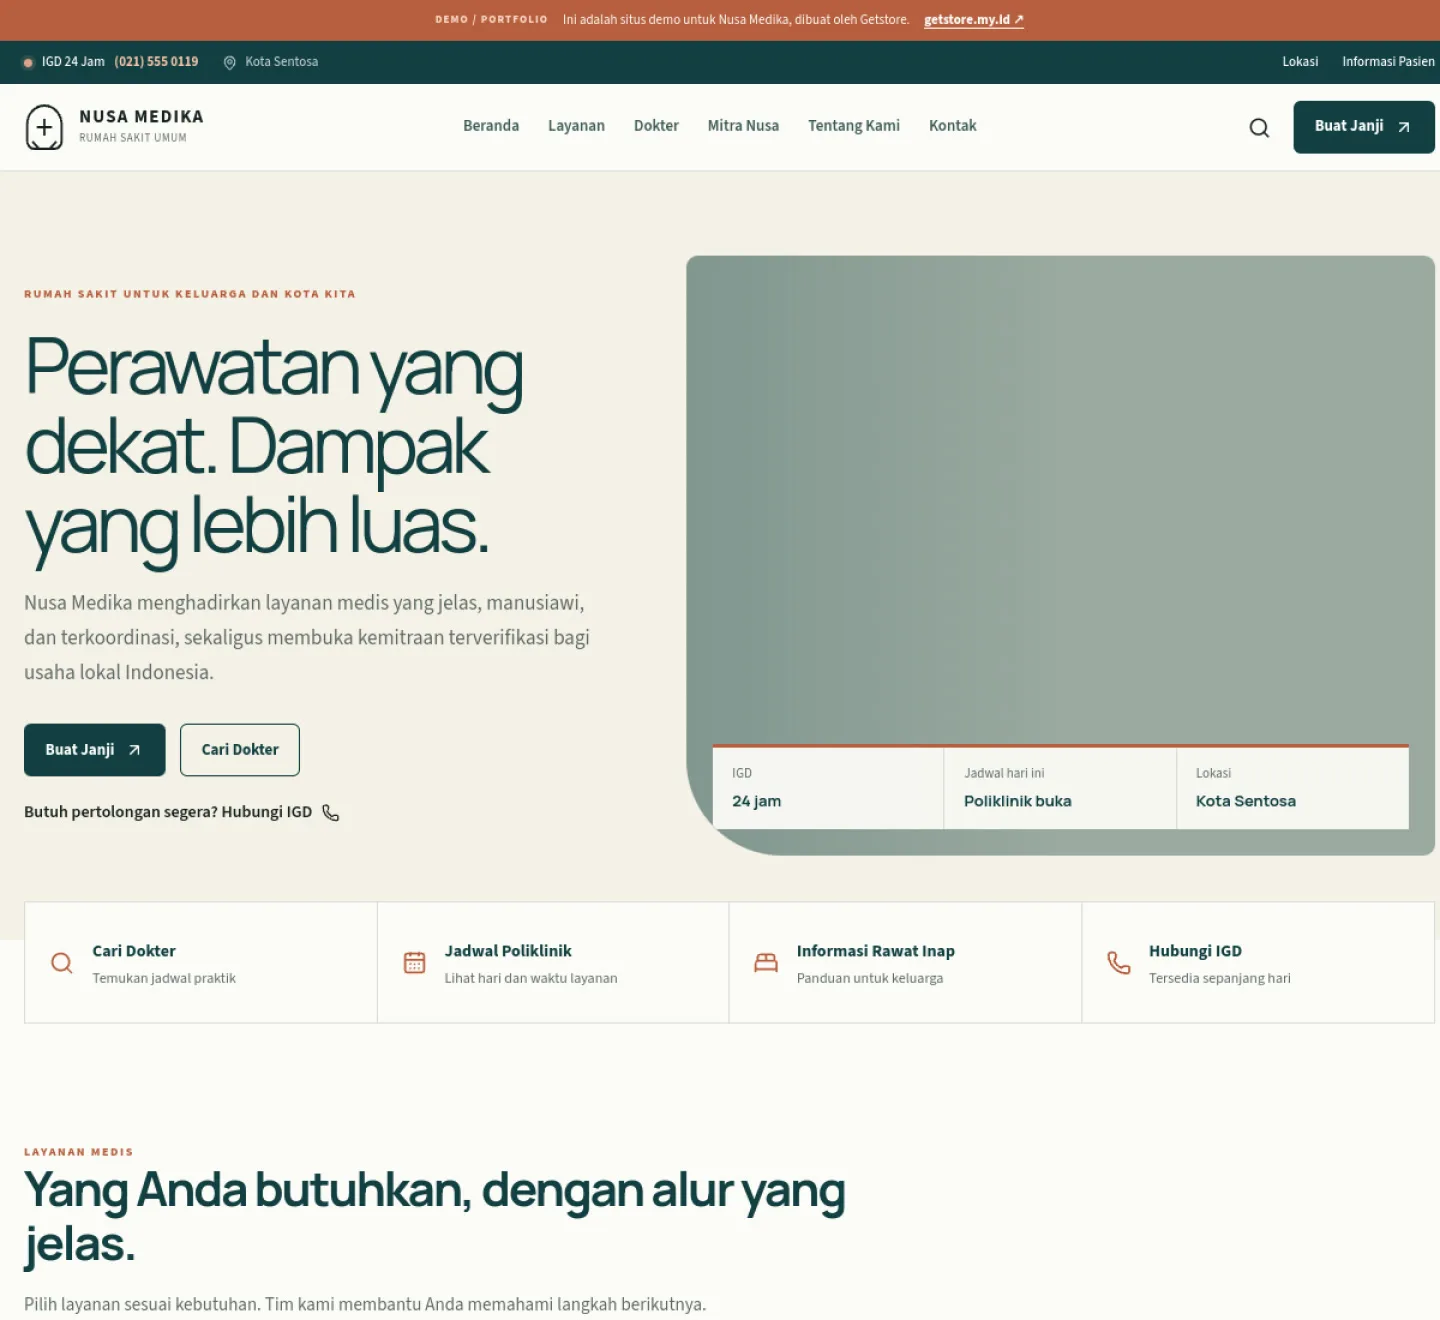
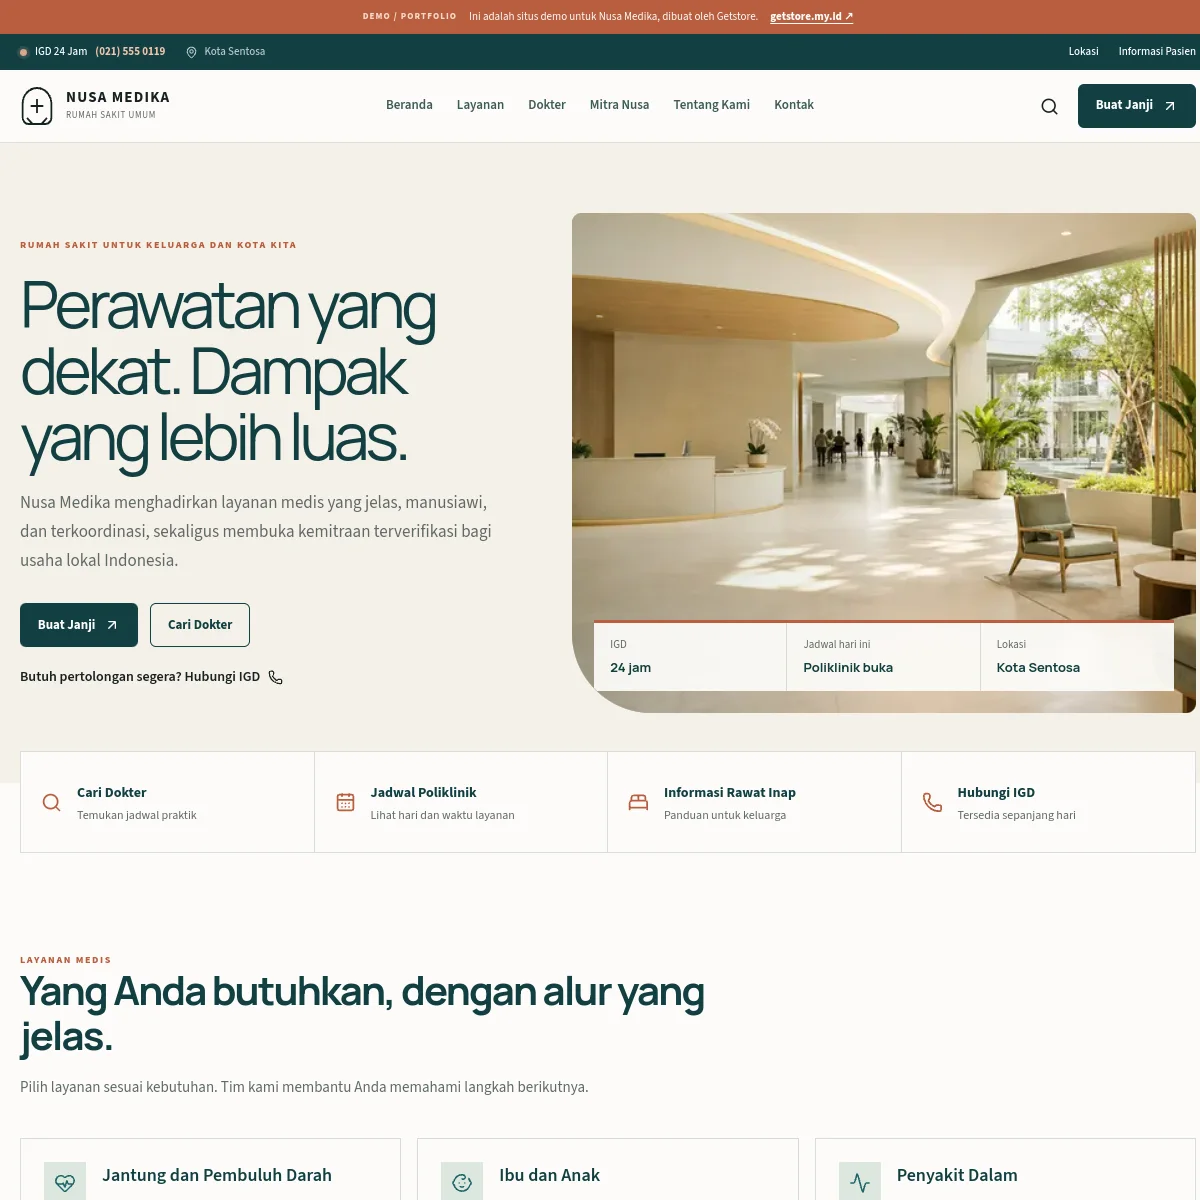
Refresh portfolio previews and image crops

diff --git a/apps/web/src/app/page.tsx b/apps/web/src/app/page.tsx
@@ -4,7 +4,7 @@ const images = {
   hero: "https://images.unsplash.com/photo-1517248135467-4c7edcad34c4?auto=format&fit=crop&w=1400&q=85",
   restaurant: "/images/portfolio-pangkas-kala.webp",
   fashion: "/images/portfolio-lungguh.webp",
-  beauty: "https://images.unsplash.com/photo-1560066984-138dadb4c035?auto=format&fit=crop&w=1200&q=85",
+  beauty: "/images/portfolio-ruang-rona.webp",
   construction: "/images/portfolio-pulang-rapi.webp",
 };
 
@@ -36,13 +36,13 @@ export default function Home() {
   return <main className="overflow-hidden">
     <section className="min-h-[100dvh] bg-[#f2eee8] px-5 pb-8 pt-5 text-[#252420] md:px-10 md:pt-7">
       <nav className="mx-auto flex max-w-[1320px] items-center justify-between border-b border-[#252420]/15 pb-5" aria-label="Navigasi utama"><a href="#top" className="font-display text-[23px] font-semibold tracking-[-0.06em]">getstore<span className="text-[#d7663f]">.</span></a><div className="hidden items-center gap-8 font-mono text-[10px] uppercase tracking-[0.18em] text-[#6f6a63] md:flex"><a className="transition-colors hover:text-[#d7663f]" href="#work">Pilihan karya</a><a className="transition-colors hover:text-[#d7663f]" href="#process">Proses</a><a className="transition-colors hover:text-[#d7663f]" href="#pricing">Harga</a></div><a href="https://wa.me/6287794620631" className="rounded-full bg-[#252420] px-5 py-3 font-mono text-[10px] uppercase tracking-[0.16em] text-[#f2eee8] transition-transform hover:-translate-y-0.5">Mari ngobrol</a></nav>
-      <div id="top" className="mx-auto grid max-w-[1320px] gap-12 pb-8 pt-12 md:grid-cols-[0.9fr_1.1fr] md:items-end md:gap-16 md:pb-14 md:pt-20"><div className="relative z-10"><Label number="01">Website untuk bisnis lokal</Label><h1 className="mt-7 max-w-[640px] font-display text-[clamp(3.25rem,6.5vw,6.8rem)] font-medium leading-[0.91] tracking-[-0.075em]">Bikin bisnis kamu terlihat <em className="font-display not-italic text-[#d7663f]">siap.</em></h1><p className="mt-8 max-w-[420px] text-[17px] leading-7 text-[#635e57]">Website yang dirancang untuk UMKM Indonesia—supaya calon pelanggan percaya sejak pertama melihat.</p><div className="mt-9 flex flex-wrap items-center gap-5"><a href="#work" className="group inline-flex items-center gap-4 rounded-full bg-[#d7663f] px-6 py-4 font-mono text-[10px] uppercase tracking-[0.16em] text-white transition-transform hover:-translate-y-1">Lihat karya kami <span className="transition-transform group-hover:translate-x-1"><Arrow /></span></a><a href="#why" className="font-mono text-[10px] uppercase tracking-[0.16em] text-[#777068] underline decoration-[#d7663f] underline-offset-8">Kenapa GetStore</a></div></div><div className="relative min-h-[390px] md:min-h-[570px]"><div className="absolute -right-5 top-0 h-[86%] w-[74%] overflow-hidden md:-right-10"><Image src={images.hero} alt="Interior restoran dengan cahaya alami" fill priority sizes="(max-width: 768px) 80vw, 50vw" className="object-cover saturate-[0.72]" /></div><div className="absolute bottom-0 left-0 w-[48%] border border-[#f2eee8] bg-[#252420] p-4 text-[#f2eee8] shadow-[12px_12px_0_#d7663f] md:p-5"><p className="font-mono text-[9px] uppercase leading-4 tracking-[0.16em] text-[#aaa49a]">Dibuat untuk bisnis<br />yang terus melangkah</p><p className="mt-8 font-display text-3xl leading-none tracking-[-0.06em]">Bisnis kecil.<br /><span className="text-[#d7663f]">Kesan besar.</span></p></div><span className="absolute right-0 top-[89%] font-mono text-[9px] uppercase tracking-[0.2em] text-[#9a9289] [writing-mode:vertical-rl]">GetStore / 2024—25</span></div></div>
+      <div id="top" className="mx-auto grid max-w-[1320px] gap-12 pb-8 pt-12 md:grid-cols-[0.9fr_1.1fr] md:items-end md:gap-16 md:pb-14 md:pt-20"><div className="relative z-10"><Label number="01">Website untuk bisnis lokal</Label><h1 className="mt-7 max-w-[640px] font-display text-[clamp(3.25rem,6.5vw,6.8rem)] font-medium leading-[0.91] tracking-[-0.075em]">Bikin bisnis kamu terlihat <em className="font-display not-italic text-[#d7663f]">siap.</em></h1><p className="mt-8 max-w-[420px] text-[17px] leading-7 text-[#635e57]">Website yang dirancang untuk UMKM Indonesia—supaya calon pelanggan percaya sejak pertama melihat.</p><div className="mt-9 flex flex-wrap items-center gap-5"><a href="#work" className="group inline-flex items-center gap-4 rounded-full bg-[#d7663f] px-6 py-4 font-mono text-[10px] uppercase tracking-[0.16em] text-white transition-transform hover:-translate-y-1">Lihat karya kami <span className="transition-transform group-hover:translate-x-1"><Arrow /></span></a><a href="#why" className="font-mono text-[10px] uppercase tracking-[0.16em] text-[#777068] underline decoration-[#d7663f] underline-offset-8">Kenapa GetStore</a></div></div><div className="relative min-h-[390px] md:min-h-[570px]"><div className="absolute -right-5 top-0 h-[86%] w-[74%] overflow-hidden md:-right-10"><Image src={images.hero} alt="Interior restoran dengan cahaya alami" fill priority sizes="(max-width: 768px) 80vw, 50vw" className="object-cover object-top saturate-[0.72]" /></div><div className="absolute bottom-0 left-0 w-[48%] border border-[#f2eee8] bg-[#252420] p-4 text-[#f2eee8] shadow-[12px_12px_0_#d7663f] md:p-5"><p className="font-mono text-[9px] uppercase leading-4 tracking-[0.16em] text-[#aaa49a]">Dibuat untuk bisnis<br />yang terus melangkah</p><p className="mt-8 font-display text-3xl leading-none tracking-[-0.06em]">Bisnis kecil.<br /><span className="text-[#d7663f]">Kesan besar.</span></p></div><span className="absolute right-0 top-[89%] font-mono text-[9px] uppercase tracking-[0.2em] text-[#9a9289] [writing-mode:vertical-rl]">GetStore / 2024—25</span></div></div>
       <div className="mx-auto flex max-w-[1320px] items-center justify-between border-t border-[#252420]/15 pt-4 font-mono text-[9px] uppercase tracking-[0.18em] text-[#9a9289]"><span>Berbasis di Indonesia</span><span>Gulir untuk melihat <span className="ml-2 text-[#d7663f]">↓</span></span></div>
     </section>
 
     <section id="why" className="bg-[#252420] px-5 py-24 text-[#f2eee8] md:px-10 md:py-36"><div className="mx-auto grid max-w-[1320px] gap-16 md:grid-cols-[0.75fr_1.25fr]"><div><Label number="02">Alasan memilih GetStore</Label><p className="mt-10 max-w-[280px] text-sm leading-6 text-[#aaa49a]">Website kamu seharusnya terasa seperti bisnis kamu di hari terbaiknya—bukan seperti template yang belum diisi.</p></div><div><h2 className="max-w-[780px] font-display text-[clamp(2.6rem,5vw,5.5rem)] leading-[0.94] tracking-[-0.07em]">Kami membuat internet terasa lebih <span className="text-[#d7663f]">manusiawi.</span></h2><div className="mt-16 grid gap-10 border-t border-[#f2eee8]/20 pt-7 sm:grid-cols-3">{reasons.map(([n, t, d]) => <div key={n}><span className="font-mono text-[10px] text-[#d7663f]">{n}</span><h3 className="mt-5 font-display text-2xl tracking-[-0.05em]">{t}</h3><p className="mt-3 text-sm leading-6 text-[#aaa49a]">{d}</p></div>)}</div></div></div></section>
 
-    <section id="work" className="bg-[#e4dfd7] px-5 py-24 text-[#252420] md:px-10 md:py-36"><div className="mx-auto max-w-[1320px]"><div className="flex flex-col justify-between gap-8 md:flex-row md:items-end"><div><Label number="03">Karya yang sudah berjalan</Label><h2 className="mt-7 max-w-[700px] font-display text-[clamp(2.8rem,5.5vw,6rem)] leading-[0.92] tracking-[-0.075em]">Bisnis yang berbeda.<br /><span className="text-[#d7663f]">Sudut pandang yang berbeda.</span></h2></div><a href="/portfolio" className="group inline-flex items-center gap-3 self-start border-b border-[#252420] pb-3 font-mono text-[10px] uppercase tracking-[0.16em] transition-colors hover:border-[#d7663f] hover:text-[#d7663f] md:self-end">Lihat semua portofolio <span className="transition-transform group-hover:translate-x-1"><Arrow /></span></a></div><div className="mt-20 grid gap-16 md:grid-cols-12 md:gap-5"><a href="https://pangkas-kala.getstore.my.id" target="_blank" rel="noreferrer" className="group block md:col-span-7"><div className="relative aspect-[1.15/1] overflow-hidden bg-[#c7c0b7]"><Image src={images.restaurant} alt="Pratinjau website Pangkas Kala" fill sizes="(max-width: 768px) 100vw, 60vw" className="object-cover saturate-[0.7] transition-transform duration-700 group-hover:scale-105" /><div className="absolute left-5 top-5 bg-[#e4dfd7] px-3 py-2 font-mono text-[9px] uppercase tracking-[0.15em]">01 / Pangkas Kala ↗</div></div><div className="mt-5 flex justify-between border-t border-[#252420]/25 pt-3"><div><h3 className="font-display text-3xl tracking-[-0.06em]">Pangkas Kala</h3><p className="mt-1 font-mono text-[9px] uppercase tracking-[0.15em] text-[#777068]">Barbershop / Cilandak</p></div><span className="text-[#d7663f]">↗</span></div></a><a href="https://lungguh.getstore.my.id" target="_blank" rel="noreferrer" className="group block md:col-span-4 md:col-start-9 md:mt-28"><div className="relative aspect-[0.8/1] overflow-hidden bg-[#9e9b91]"><Image src={images.fashion} alt="Pratinjau website Lungguh" fill sizes="(max-width: 768px) 100vw, 35vw" className="object-cover saturate-[0.65] transition-transform duration-700 group-hover:scale-105" /><div className="absolute bottom-5 left-5 bg-[#252420] px-3 py-2 font-mono text-[9px] uppercase tracking-[0.15em] text-[#f2eee8]">02 / Lungguh ↗</div></div><div className="mt-5 border-t border-[#252420]/25 pt-3"><h3 className="font-display text-3xl tracking-[-0.06em]">Lungguh</h3><p className="mt-1 font-mono text-[9px] uppercase tracking-[0.15em] text-[#777068]">Angkringan / Yogyakarta</p></div></a></div><div className="mt-20 grid gap-16 md:grid-cols-2 md:gap-24"><a href="https://ruang-rona.getstore.my.id" target="_blank" rel="noreferrer" className="group block"><div className="relative aspect-[1.6/1] overflow-hidden bg-[#c9b9aa]"><Image src={images.beauty} alt="Pratinjau website Ruang Rona" fill sizes="(max-width: 768px) 100vw, 50vw" className="object-cover saturate-[0.65] transition-transform duration-700 group-hover:scale-105" /></div><div className="mt-5 flex justify-between border-t border-[#252420]/25 pt-3"><div><h3 className="font-display text-3xl tracking-[-0.06em]">Ruang Rona</h3><p className="mt-1 font-mono text-[9px] uppercase tracking-[0.15em] text-[#777068]">Salon & beauty house / Jakarta Selatan</p></div><span className="text-[#d7663f]">↗</span></div></a><a href="https://pulang-rapi.getstore.my.id" target="_blank" rel="noreferrer" className="group block md:mt-16"><div className="relative aspect-[1.6/1] overflow-hidden bg-[#a79d8c]"><Image src={images.construction} alt="Pratinjau website Pulang Rapi" fill sizes="(max-width: 768px) 100vw, 50vw" className="object-cover saturate-[0.55] transition-transform duration-700 group-hover:scale-105" /></div><div className="mt-5 border-t border-[#252420]/25 pt-3"><h3 className="font-display text-3xl tracking-[-0.06em]">Pulang Rapi</h3><p className="mt-1 font-mono text-[9px] uppercase tracking-[0.15em] text-[#777068]">Laundry / Jakarta</p></div></a></div></div></section>
+    <section id="work" className="bg-[#e4dfd7] px-5 py-24 text-[#252420] md:px-10 md:py-36"><div className="mx-auto max-w-[1320px]"><div className="flex flex-col justify-between gap-8 md:flex-row md:items-end"><div><Label number="03">Karya yang sudah berjalan</Label><h2 className="mt-7 max-w-[700px] font-display text-[clamp(2.8rem,5.5vw,6rem)] leading-[0.92] tracking-[-0.075em]">Bisnis yang berbeda.<br /><span className="text-[#d7663f]">Sudut pandang yang berbeda.</span></h2></div><a href="/portfolio" className="group inline-flex items-center gap-3 self-start border-b border-[#252420] pb-3 font-mono text-[10px] uppercase tracking-[0.16em] transition-colors hover:border-[#d7663f] hover:text-[#d7663f] md:self-end">Lihat semua portofolio <span className="transition-transform group-hover:translate-x-1"><Arrow /></span></a></div><div className="mt-20 grid gap-16 md:grid-cols-12 md:gap-5"><a href="https://pangkas-kala.getstore.my.id" target="_blank" rel="noreferrer" className="group block md:col-span-7"><div className="relative aspect-[1.15/1] overflow-hidden bg-[#c7c0b7]"><Image src={images.restaurant} alt="Pratinjau website Pangkas Kala" fill sizes="(max-width: 768px) 100vw, 60vw" className="object-cover object-top saturate-[0.7] transition-transform duration-700 group-hover:scale-105" /><div className="absolute left-5 top-5 bg-[#e4dfd7] px-3 py-2 font-mono text-[9px] uppercase tracking-[0.15em]">01 / Pangkas Kala ↗</div></div><div className="mt-5 flex justify-between border-t border-[#252420]/25 pt-3"><div><h3 className="font-display text-3xl tracking-[-0.06em]">Pangkas Kala</h3><p className="mt-1 font-mono text-[9px] uppercase tracking-[0.15em] text-[#777068]">Barbershop / Cilandak</p></div><span className="text-[#d7663f]">↗</span></div></a><a href="https://lungguh.getstore.my.id" target="_blank" rel="noreferrer" className="group block md:col-span-4 md:col-start-9 md:mt-28"><div className="relative aspect-[0.8/1] overflow-hidden bg-[#9e9b91]"><Image src={images.fashion} alt="Pratinjau website Lungguh" fill sizes="(max-width: 768px) 100vw, 35vw" className="object-cover object-top saturate-[0.65] transition-transform duration-700 group-hover:scale-105" /><div className="absolute bottom-5 left-5 bg-[#252420] px-3 py-2 font-mono text-[9px] uppercase tracking-[0.15em] text-[#f2eee8]">02 / Lungguh ↗</div></div><div className="mt-5 border-t border-[#252420]/25 pt-3"><h3 className="font-display text-3xl tracking-[-0.06em]">Lungguh</h3><p className="mt-1 font-mono text-[9px] uppercase tracking-[0.15em] text-[#777068]">Angkringan / Yogyakarta</p></div></a></div><div className="mt-20 grid gap-16 md:grid-cols-2 md:gap-24"><a href="https://ruang-rona.getstore.my.id" target="_blank" rel="noreferrer" className="group block"><div className="relative aspect-[1.6/1] overflow-hidden bg-[#c9b9aa]"><Image src={images.beauty} alt="Pratinjau website Ruang Rona" fill sizes="(max-width: 768px) 100vw, 50vw" className="object-cover object-top saturate-[0.65] transition-transform duration-700 group-hover:scale-105" /></div><div className="mt-5 flex justify-between border-t border-[#252420]/25 pt-3"><div><h3 className="font-display text-3xl tracking-[-0.06em]">Ruang Rona</h3><p className="mt-1 font-mono text-[9px] uppercase tracking-[0.15em] text-[#777068]">Salon & beauty house / Jakarta Selatan</p></div><span className="text-[#d7663f]">↗</span></div></a><a href="https://pulang-rapi.getstore.my.id" target="_blank" rel="noreferrer" className="group block md:mt-16"><div className="relative aspect-[1.6/1] overflow-hidden bg-[#a79d8c]"><Image src={images.construction} alt="Pratinjau website Pulang Rapi" fill sizes="(max-width: 768px) 100vw, 50vw" className="object-cover object-top saturate-[0.55] transition-transform duration-700 group-hover:scale-105" /></div><div className="mt-5 border-t border-[#252420]/25 pt-3"><h3 className="font-display text-3xl tracking-[-0.06em]">Pulang Rapi</h3><p className="mt-1 font-mono text-[9px] uppercase tracking-[0.15em] text-[#777068]">Laundry / Jakarta</p></div></a></div></div></section>
 
     <section id="process" className="bg-[#f2eee8] px-5 py-24 text-[#252420] md:px-10 md:py-36"><div className="mx-auto grid max-w-[1320px] gap-16 md:grid-cols-[0.8fr_1.2fr]"><div><Label number="04">Dari ide hingga online</Label><h2 className="mt-7 max-w-[410px] font-display text-[clamp(2.8rem,5vw,5rem)] leading-[0.94] tracking-[-0.07em]">Proses sederhana, tetap <span className="text-[#d7663f]">personal.</span></h2></div><div className="border-t border-[#252420]/20">{steps.map(([n, t, d]) => <div key={n} className="grid grid-cols-[44px_1fr] gap-5 border-b border-[#252420]/20 py-7 sm:grid-cols-[70px_1fr_1fr]"><span className="font-mono text-[10px] text-[#d7663f]">{n}</span><h3 className="font-display text-2xl tracking-[-0.05em]">{t}</h3><p className="col-start-2 mt-2 text-sm leading-6 text-[#777068] sm:col-start-auto sm:mt-0">{d}</p></div>)}</div></div></section>
 

diff --git a/apps/web/src/app/portfolio/page.tsx b/apps/web/src/app/portfolio/page.tsx
@@ -19,7 +19,7 @@ export default function PortfolioPage() {
           {projects.map((project, index) => (
             <a key={project.name} href={project.href} target="_blank" rel="noreferrer" className={`group block ${index % 3 === 1 ? "md:mt-24" : ""}`}>
               <div className="relative aspect-[1.2/1] overflow-hidden bg-[#3a3833]">
-                <Image src={project.image} alt={project.alt} fill sizes="(max-width: 768px) 100vw, 50vw" className="object-cover saturate-[0.7] transition duration-700 group-hover:scale-105 group-hover:saturate-100" />
+                <Image src={project.image} alt={project.alt} fill sizes="(max-width: 768px) 100vw, 50vw" style={{ objectPosition: "top" }} className="object-cover object-top saturate-[0.7] transition duration-700 group-hover:scale-105 group-hover:saturate-100" />
                 <span className="absolute left-5 top-5 bg-[#f2eee8] px-3 py-2 font-mono text-[9px] uppercase tracking-[0.15em] text-[#252420]">{String(index + 1).padStart(2, "0")} / Kunjungi situs ↗</span>
               </div>
               <div className="mt-5 flex items-start justify-between border-t border-[#f2eee8]/25 pt-3">

diff --git a/apps/web/src/data/projects.ts b/apps/web/src/data/projects.ts
@@ -21,8 +21,8 @@ export const projects: Project[] = [
     category: "Salon & beauty house",
     location: "Jakarta Selatan",
     href: "https://ruang-rona.getstore.my.id",
-    image: "https://images.unsplash.com/photo-1560066984-138dadb4c035?auto=format&fit=crop&w=1200&q=85",
-    alt: "Interior salon kecantikan",
+    image: "/images/portfolio-ruang-rona.webp",
+    alt: "Pratinjau website Ruang Rona",
   },
   {
     name: "Pulang Rapi",
@@ -46,6 +46,6 @@ export const projects: Project[] = [
     location: "Indonesia",
     href: "https://nusa-medika.getstore.my.id",
     image: "/images/portfolio-nusa-medika.webp",
-    alt: "Dokter memberikan konsultasi kesehatan",
+    alt: "Pratinjau website Nusa Medika",
   },
 ];

diff --git a/apps/web/src/app/globals.css b/apps/web/src/app/globals.css
@@ -8,4 +8,5 @@ body { margin: 0; background: var(--background); color: var(--foreground); font-
 a { -webkit-tap-highlight-color: transparent; }
 a:focus-visible, summary:focus-visible { outline: 2px solid #d7663f; outline-offset: 5px; }
 .font-display { font-family: var(--font-display), Arial, Helvetica, sans-serif; }
+img.object-top { object-position: top !important; }
 @media (prefers-reduced-motion: reduce) { html { scroll-behavior: auto; } *, *::before, *::after { animation-duration: .01ms !important; animation-iteration-count: 1 !important; transition-duration: .01ms !important; } }
